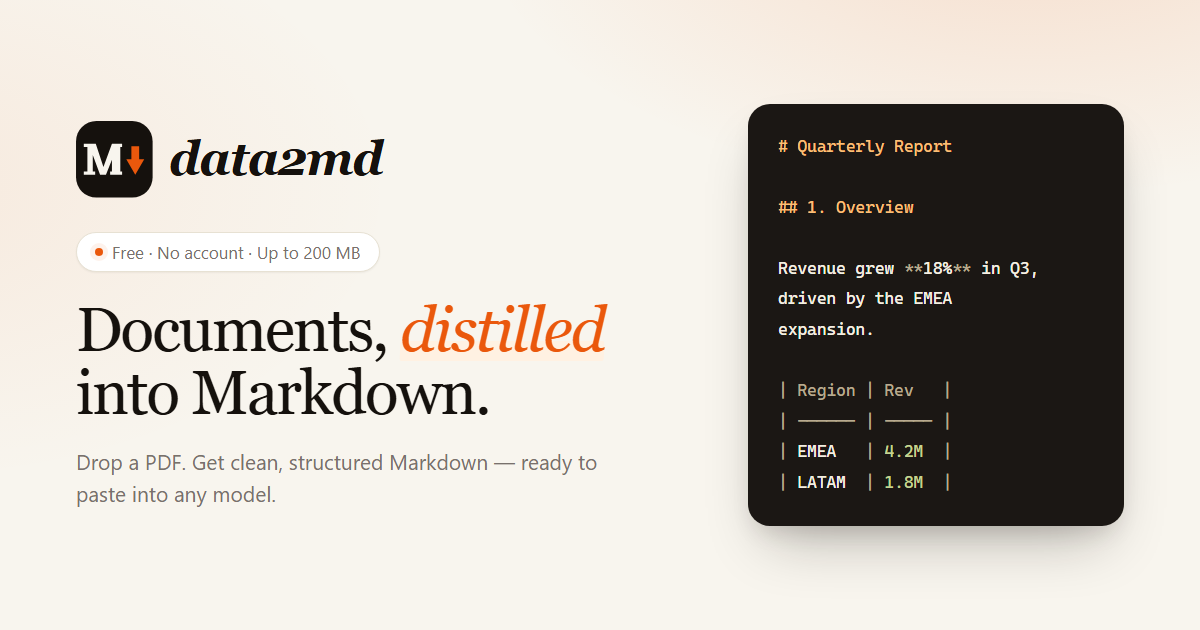
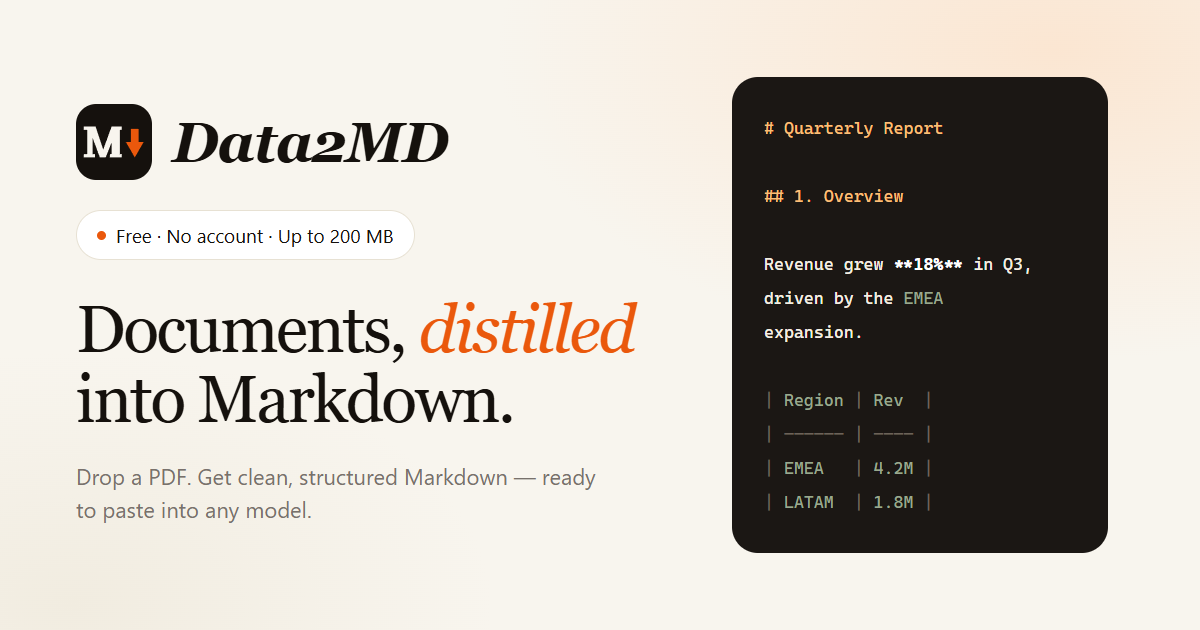
feat(brand): standardise on Data2MD
APP_NAME in the image, the copy that spells the name out instead of
interpolating it, the web manifest, the three marks' titles and accessible
names, and the README heading. The wordmark in logo.svg and the two rasterised
assets that carry it were regenerated, since those are the only places the name
is drawn rather than written.

logo.svg needed its viewBox widened: measured in a browser, the capitals carry
the wordmark to x=271.3, past the 264 the lowercase original was fitted to, so
the D was being clipped.

Technical identifiers keep their spelling, because renaming them breaks rather
than renames: the Data2Md namespace, /var/lib/data2md and the volume named for
it, bin/data2md, the [data2md] log prefix, the d2md_ cookie and token prefixes,
and the composer package. The one that would have been worst is the data
directory -- a live deployment would have come up pointing at an empty volume.

billing:create-product now derives "Data2MD Premium" on its own, matching the
product already created in Stripe.

diff --git a/public/assets/css/docs.css b/public/assets/css/docs.css
@@ -1,5 +1,5 @@
 /* ============================================================
-   data2md — API Reference (/api)
+   Data2MD — API Reference (/api)
    Reuses tokens from landing.css. Loaded after it.
    ============================================================ */
 

diff --git a/public/assets/css/app.css b/public/assets/css/app.css
@@ -1,5 +1,5 @@
 /* ============================================================
-   data2md — Converter (/app)
+   Data2MD — Converter (/app)
    Reuses tokens from landing.css. Loaded after it.
    ============================================================ */
 

diff --git a/public/assets/css/landing.css b/public/assets/css/landing.css
@@ -1,5 +1,5 @@
 /* ============================================================
-   data2md — Landing
+   Data2MD — Landing
    Palette: paper · ink · amber. Editorial + modern.
    ============================================================ */
 

diff --git a/src/I18n/translations/pt.php b/src/I18n/translations/pt.php
@@ -28,7 +28,7 @@ return [
     // ── Landing — meta ─────────────────────────────────────────
     'landing.title'     => '%s · Documentos, destilados em Markdown',
     'landing.meta.desc' => 'Solte um PDF. Receba Markdown limpo e pronto pra IA. Feito pra arquivos grandes, preserva a estrutura e é grátis.',
-    'og.image.alt'      => 'O logo do data2md ao lado de uma amostra de Markdown convertido.',
+    'og.image.alt'      => 'O logo do Data2MD ao lado de uma amostra de Markdown convertido.',
 
     // ── Landing — hero ─────────────────────────────────────────
     'landing.hero.eyebrow' => 'Grátis · Sem cadastro · Até %s',
@@ -84,7 +84,7 @@ return [
 
     // ── Entrar ─────────────────────────────────────────────────
     'auth.login.title'      => '%s · Entrar',
-    'auth.login.meta.desc'  => 'Entre no data2md com um link de uso único enviado por e-mail. Sem senha pra lembrar.',
+    'auth.login.meta.desc'  => 'Entre no Data2MD com um link de uso único enviado por e-mail. Sem senha pra lembrar.',
     'auth.login.eyebrow'    => '// entrar',
     'auth.login.heading'    => 'Entre com um <em>link</em>.',
     'auth.login.lead'       => 'Informe seu e-mail e enviamos um link de uso único. Não existe senha, e entrar pela primeira vez cria sua conta.',
@@ -348,7 +348,7 @@ return [
     'legal.terms.heading' => 'Termos de uso',
 
     'legal.terms.service.h' => 'O serviço',
-    'legal.terms.service.b' => 'O data2md converte documentos em texto Markdown. O conversor deste site é gratuito. Uma conta aumenta o limite de tamanho de arquivo; a assinatura paga aumenta mais e é o que abre a API HTTP.',
+    'legal.terms.service.b' => 'O Data2MD converte documentos em texto Markdown. O conversor deste site é gratuito. Uma conta aumenta o limite de tamanho de arquivo; a assinatura paga aumenta mais e é o que abre a API HTTP.',
 
     'legal.terms.accounts.h' => 'Contas',
     'legal.terms.accounts.b' => 'A conta é opcional. Entrar funciona por um link de uso único enviado ao seu e-mail, então não há senha para escolher nem perder. A conta lista as conversões feitas enquanto você estava logado, para baixar, compartilhar ou excluir. Como é o link que prova que a conta é sua, manter o acesso a essa caixa de e-mail é responsabilidade sua. Para encerrar uma conta, escreva para <a href="mailto:%4$s">%4$s</a>.',
@@ -382,7 +382,7 @@ return [
     'legal.privacy.heading' => 'Privacidade',
 
     'legal.privacy.controller.h' => 'Quem é o responsável',
-    'legal.privacy.controller.b' => 'O data2md é responsável pelo tratamento dos dados descritos nesta página. Contato: <a href="mailto:%4$s">%4$s</a>.',
+    'legal.privacy.controller.b' => 'O Data2MD é responsável pelo tratamento dos dados descritos nesta página. Contato: <a href="mailto:%4$s">%4$s</a>.',
 
     'legal.privacy.upload.h' => 'O arquivo que você envia',
     'legal.privacy.upload.b' => '<strong>Ele é apagado do servidor logo após a conversão</strong>, inclusive quando a conversão falha. É usado apenas para extrair o texto e não é retido.',

diff --git a/src/I18n/translations/en.php b/src/I18n/translations/en.php
@@ -28,7 +28,7 @@ return [
     // ── Landing — meta ─────────────────────────────────────────
     'landing.title'     => '%s · Documents, distilled into Markdown',
     'landing.meta.desc' => 'Drop a PDF. Get clean, AI-ready Markdown. Built for large files, structure-preserving, and free to use.',
-    'og.image.alt'      => 'The data2md logo beside a sample of converted Markdown.',
+    'og.image.alt'      => 'The Data2MD logo beside a sample of converted Markdown.',
 
     // ── Landing — hero ─────────────────────────────────────────
     'landing.hero.eyebrow' => 'Free · No account · Up to %s',
@@ -84,7 +84,7 @@ return [
 
     // ── Sign in ────────────────────────────────────────────────
     'auth.login.title'      => '%s · Sign in',
-    'auth.login.meta.desc'  => 'Sign in to data2md with a single-use link sent to your e-mail. No password to remember.',
+    'auth.login.meta.desc'  => 'Sign in to Data2MD with a single-use link sent to your e-mail. No password to remember.',
     'auth.login.eyebrow'    => '// sign in',
     'auth.login.heading'    => 'Sign in with a <em>link</em>.',
     'auth.login.lead'       => 'Enter your e-mail and we send a single-use link. There is no password, and signing in for the first time creates your account.',
@@ -348,7 +348,7 @@ return [
     'legal.terms.heading' => 'Terms of use',
 
     'legal.terms.service.h' => 'The service',
-    'legal.terms.service.b' => 'data2md converts documents into Markdown text. The converter on this site is free to use. An account raises the file size limit; a paid subscription raises it further and is what opens the HTTP API.',
+    'legal.terms.service.b' => 'Data2MD converts documents into Markdown text. The converter on this site is free to use. An account raises the file size limit; a paid subscription raises it further and is what opens the HTTP API.',
 
     'legal.terms.accounts.h' => 'Accounts',
     'legal.terms.accounts.b' => 'An account is optional. Signing in works through a single-use link sent to your e-mail address, so there is no password to choose or lose. An account lists the conversions you made while signed in, so you can download, share or delete them. Because the link is what proves the account is yours, keeping access to that mailbox is your responsibility. To close an account, write to <a href="mailto:%4$s">%4$s</a>.',
@@ -382,7 +382,7 @@ return [
     'legal.privacy.heading' => 'Privacy',
 
     'legal.privacy.controller.h' => 'Who is responsible',
-    'legal.privacy.controller.b' => 'data2md is responsible for handling the data described on this page. Contact: <a href="mailto:%4$s">%4$s</a>.',
+    'legal.privacy.controller.b' => 'Data2MD is responsible for handling the data described on this page. Contact: <a href="mailto:%4$s">%4$s</a>.',
 
     'legal.privacy.upload.h' => 'The file you upload',
     'legal.privacy.upload.b' => '<strong>It is deleted from the server right after conversion</strong>, including when the conversion fails. It is used only to extract the text and is not retained.',

diff --git a/README.md b/README.md
@@ -1,6 +1,6 @@
-<img src="public/assets/img/logo.png" alt="data2md" width="300">
+<img src="public/assets/img/logo.png" alt="Data2MD" width="300">
 
-# data2md
+# Data2MD
 
 Convert documents to clean, structured Markdown via a web interface or HTTP API.
 
@@ -131,7 +131,7 @@ Visit `/api` in a browser for the full interactive API reference.
 GET /download?hash={hash}
 ```
 
-Returns the `.md` file as an attachment. Converted Markdown is kept permanently — there is no automatic expiry. The only way it's removed is `bin/data2md delete <hash>` or `bin/data2md prune --older-than=N`, both operator-only; there is no self-service deletion.
+Returns the `.md` file as an attachment. Converted Markdown has no automatic expiry. It is removed by `bin/data2md delete <hash>`, by `bin/data2md prune --older-than=N`, or by a signed-in user deleting their own conversion from the dashboard.
 
 ---
 
